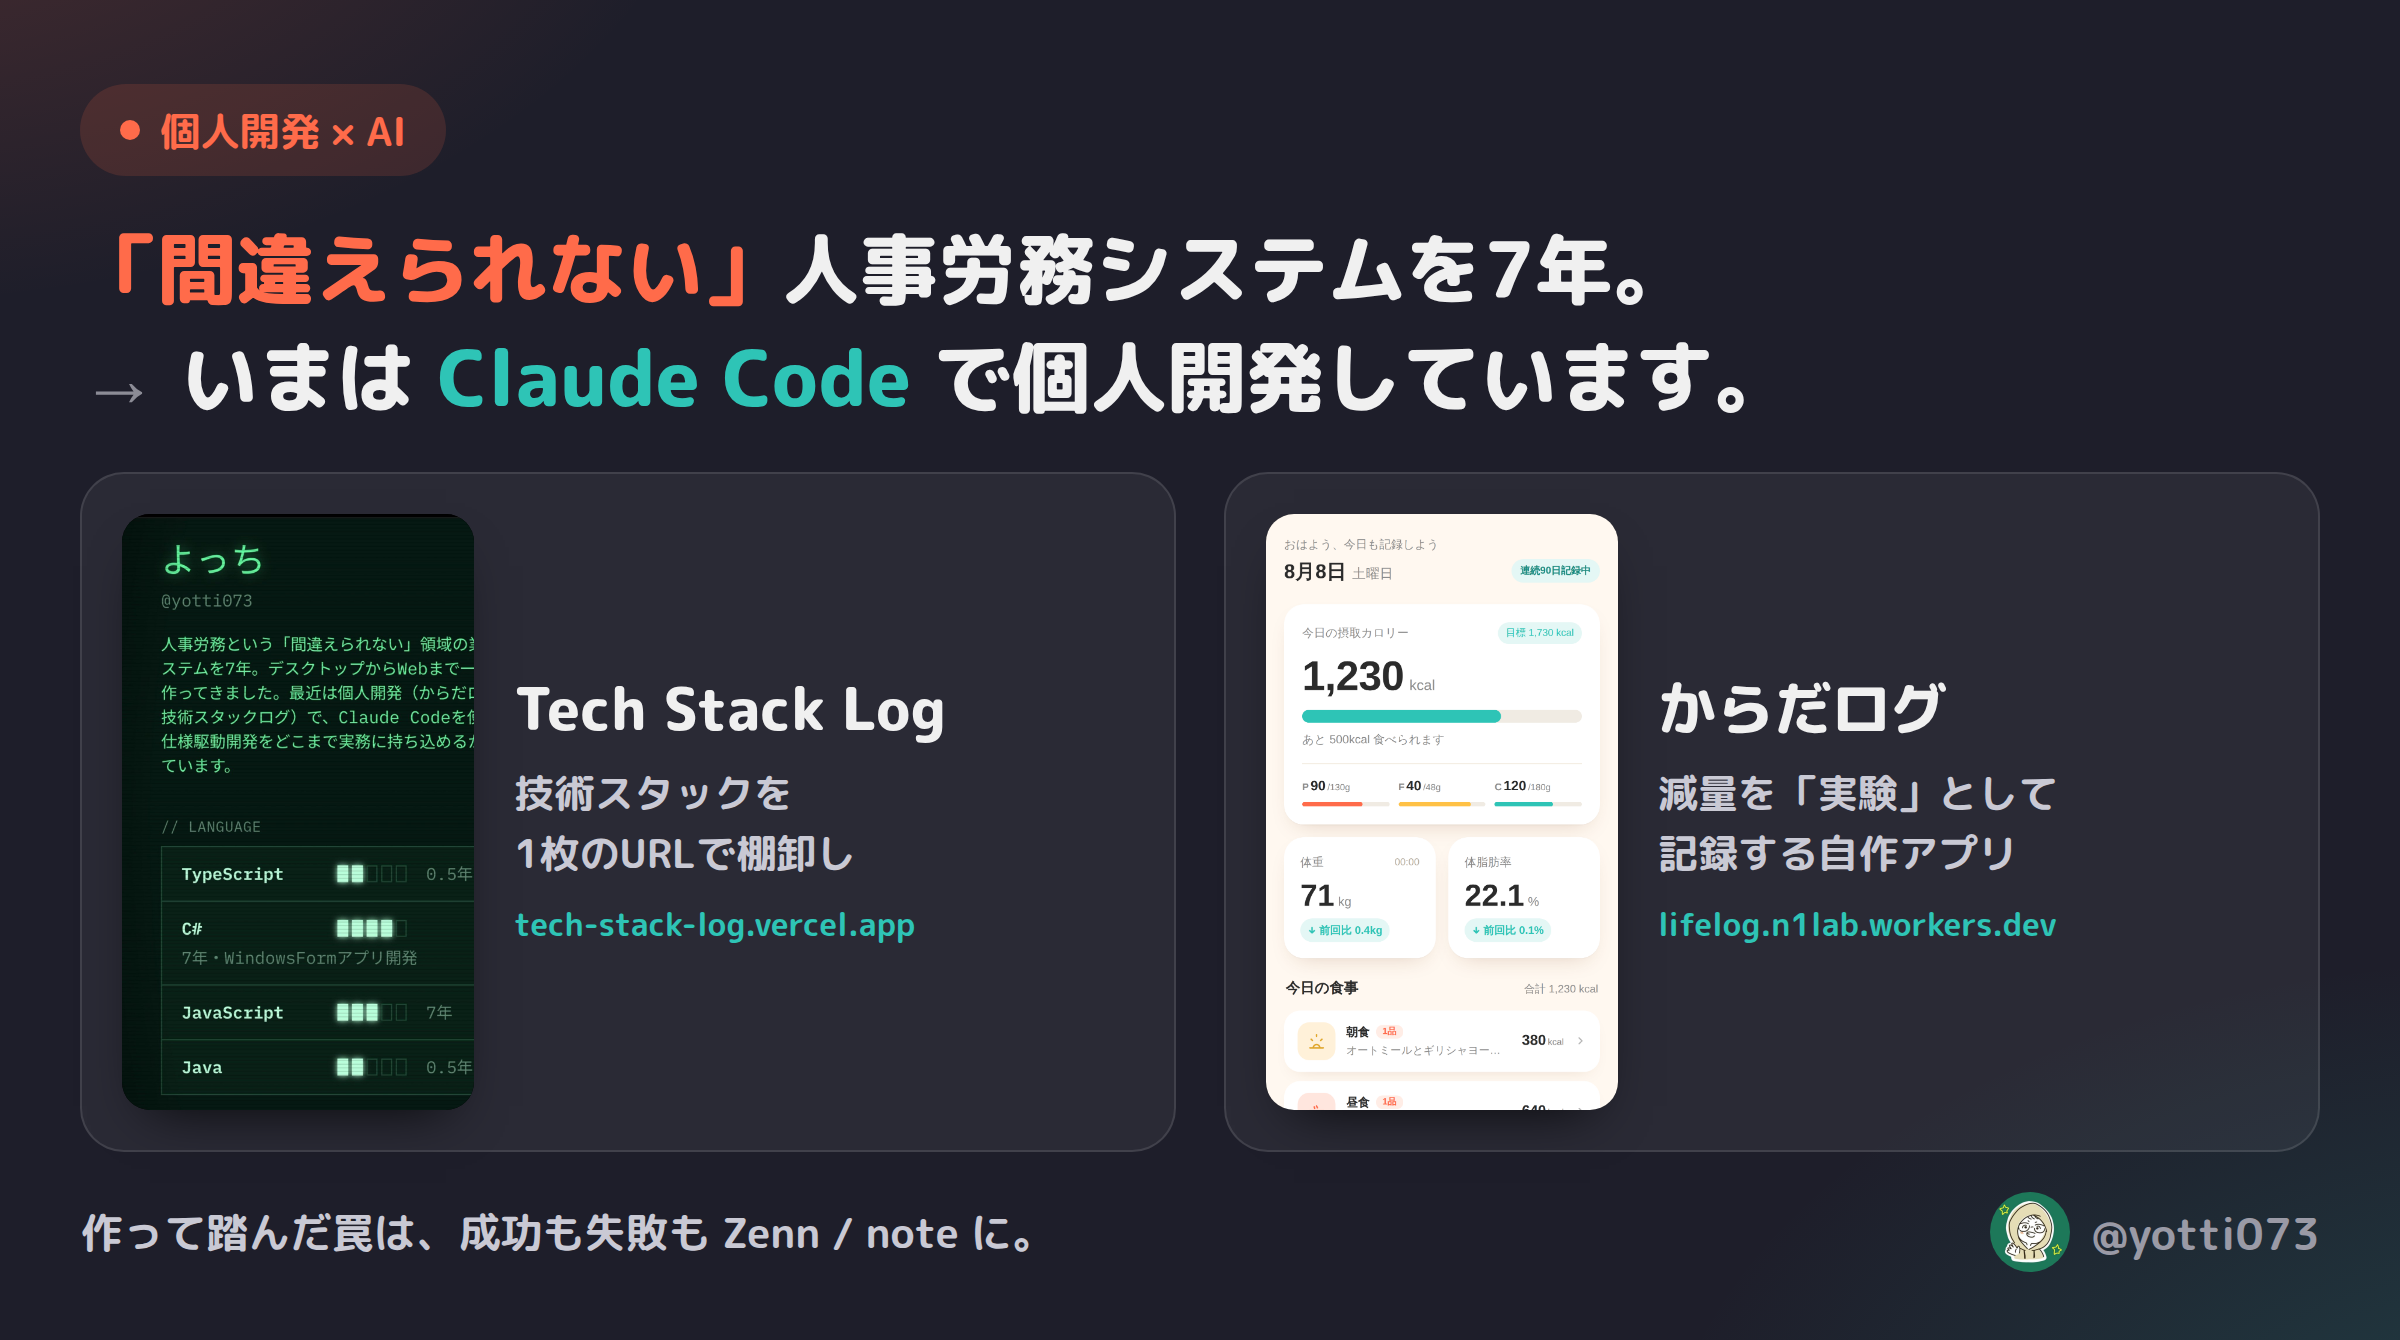
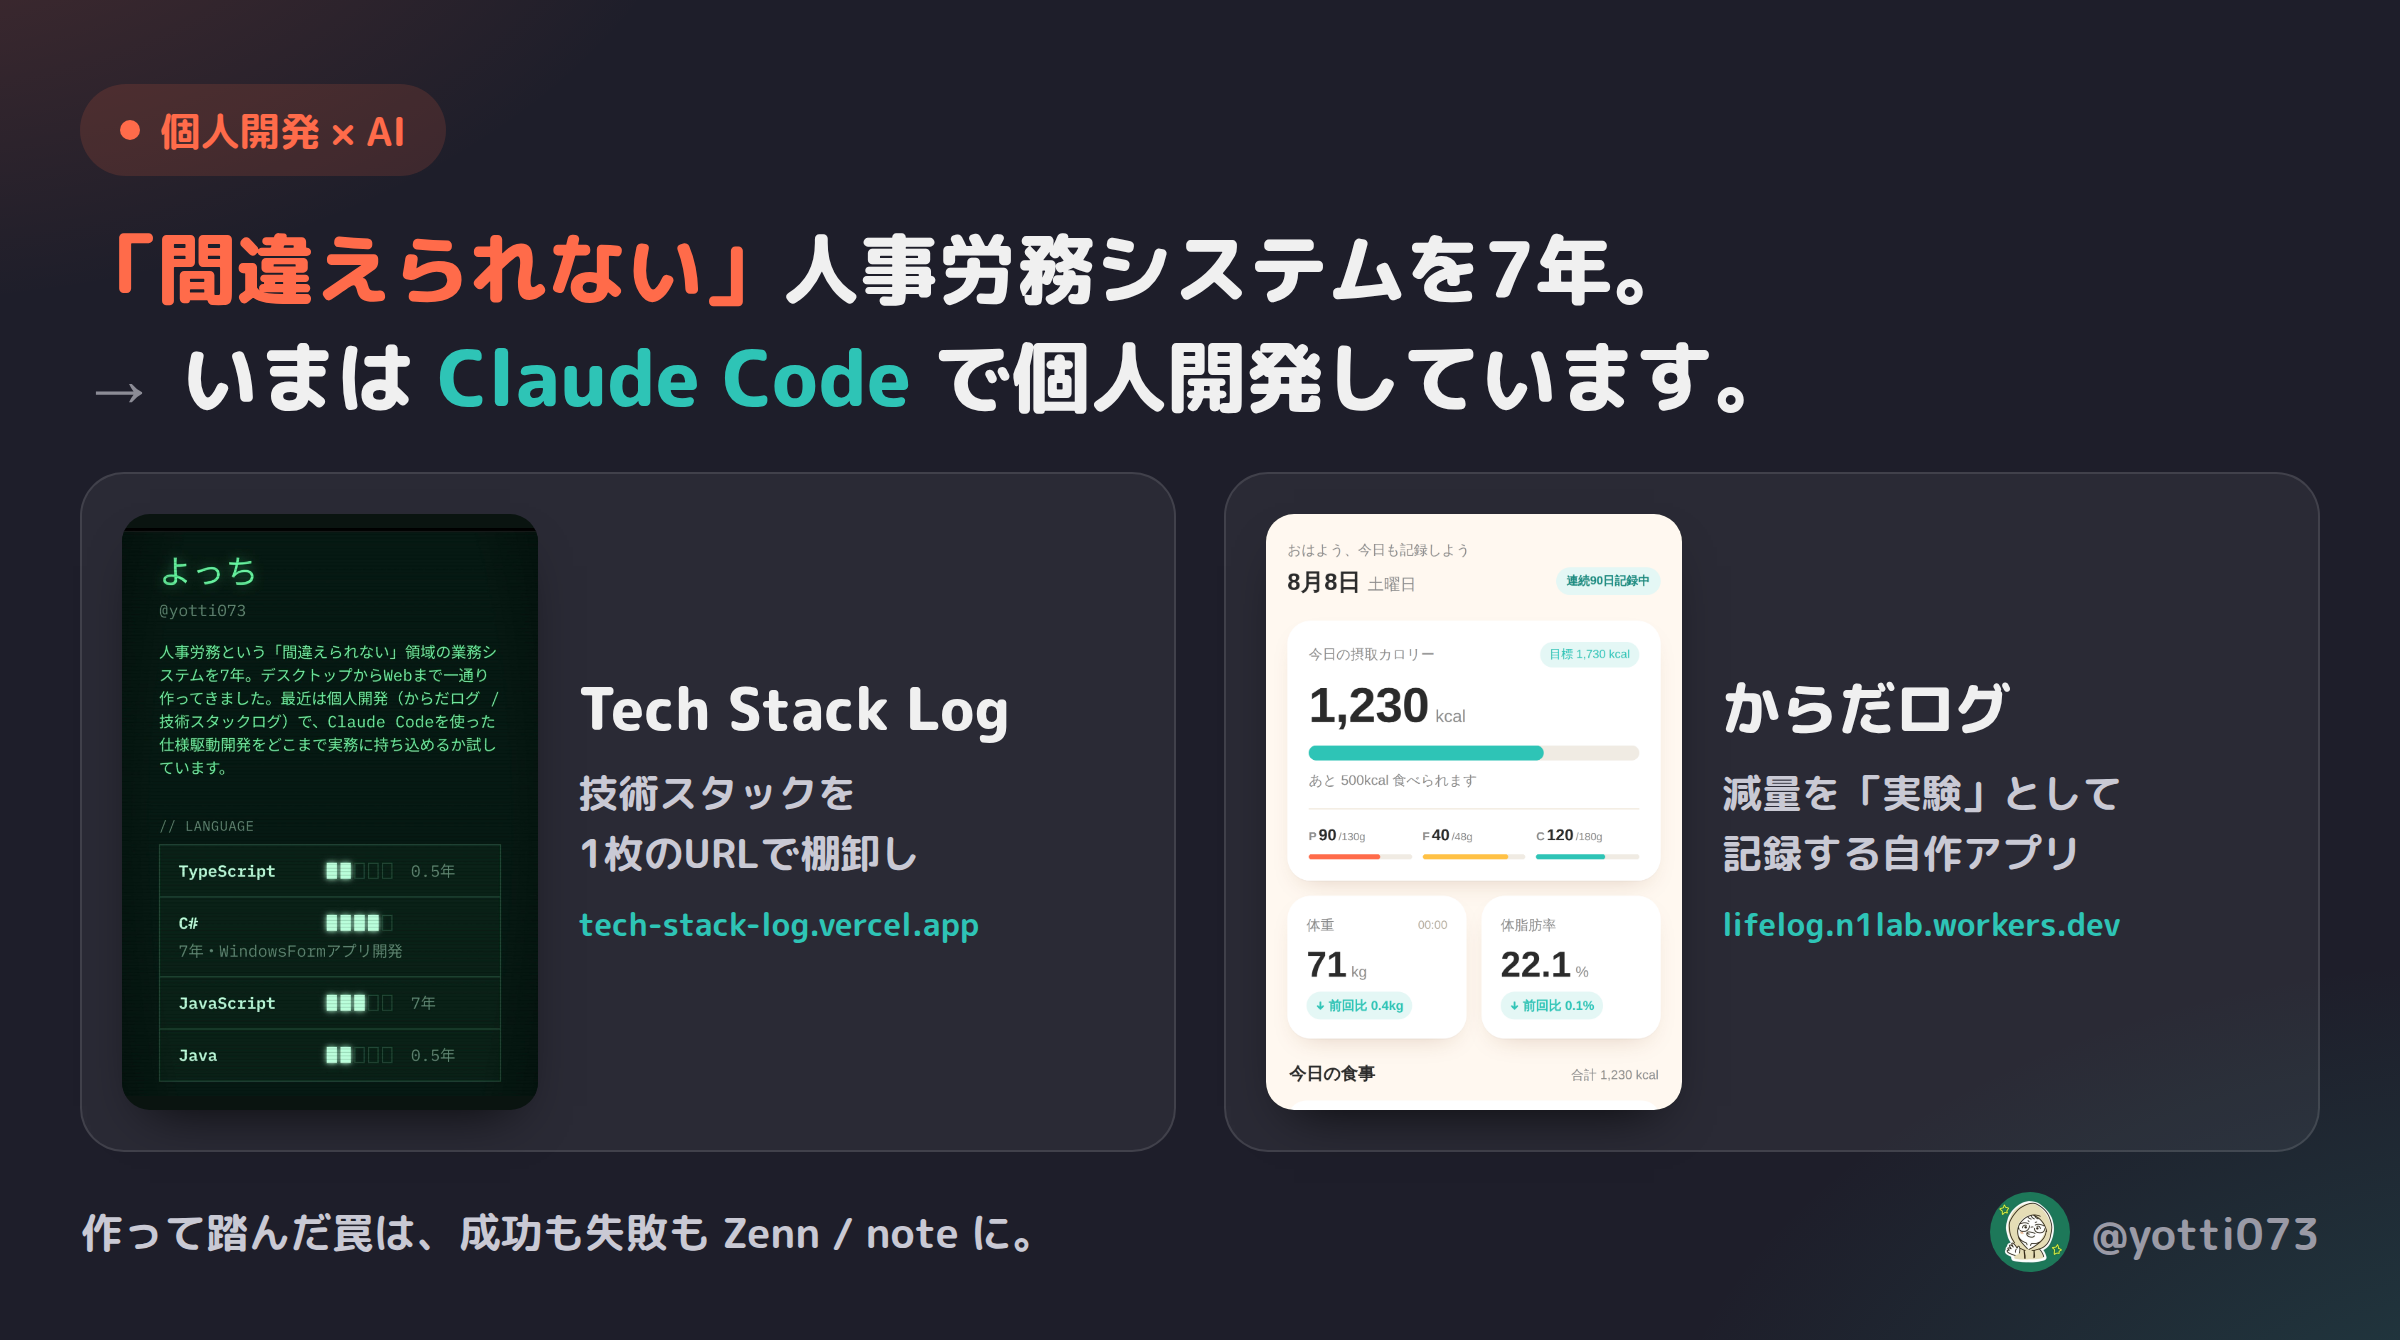
固定ポスト画像のTech Stack Logサムネが切れていたのを直す
両方のサムネを同じ縦長枠に object-fit: cover で嵌めていたため、横に広い
Webページである Tech Stack Log は左右が切れて読めなくなっていた。

- Tech Stack Log 側は contain にして全体を入れる。枠の地の色を元画像の
  背景色に合わせてあるので余白は見えない
- からだログはスマホ画面(縦長)なので cover のまま上から詰める
- サムネ枠を176px→208pxに広げた
- 書き出し時に、表示上の縦横比が元画像と一致するか(=切れていないか)を
  検査するようにした

Claude-Session: https://claude.ai/code/session_01UT8WUt3Dvf6SGYAopvuh2W

Changed region(s): [[0.5312, 0.3672, 0.875, 0.8261], [0.0625, 0.3672, 0.4375, 0.8261]]

diff --git a/articles/X投稿ストック.md b/articles/X投稿ストック.md
@@ -752,6 +752,8 @@ https://github.com/yotti773/lifelog
 
 Tech Stack Log 側の素材は本人がアップロードした `techstacklog_プロフィール.jpg`(サイトはこの開発環境からネットワーク制限で開けないため、こちらでは撮影できない)。
 
+**縦横比が違う素材を並べるときは、サムネの嵌め方を素材ごとに変える。** 初回は両方を同じ縦長枠に `object-fit: cover` で嵌めたところ、**Tech Stack Log(横に広いWebページ)は左右が切れて読めなくなった**。からだログはスマホ画面(縦長)なので上から詰めて縦に切れば問題ないが、Web画面は `contain` にして全体を入れる必要がある。枠の地の色を元画像の背景色に合わせておけば、`contain` の余白は見えない。書き出しスクリプトでは**表示上の縦横比と元画像の比率が一致するか**を検査して、切れていたら落とすようにしてある。
+
 **実画面型のデータは仮の値**(本人決定、2026-08-08)。アプリはローカルファースト(IndexedDB)で素のブラウザでは全画面が空になるため、`npm run dev` を起動してPlaywrightからIndexedDBへ90日ぶんの体重・60日ぶんの食事/水分/活動を流し込んでから撮影した。体重71.0kg・目標64.0kg・目標カロリー1,730kcalは実際の値に合わせてあるが、**食事名・歩数などは作った値**。撮影スクリプトはリポジトリに入れていないため、撮り直す場合は同じ手順を再構築する必要がある。
 
 **この1本は固定ポストには使わない(2026-08-08に方針変更)。** 当初は固定ポスト候補として作り 8/7 に投稿・固定したが、その後**本人が別の投稿(経歴+2プロダクト)に固定を戻した**。そちらのほうが固定ポストとして強い:
